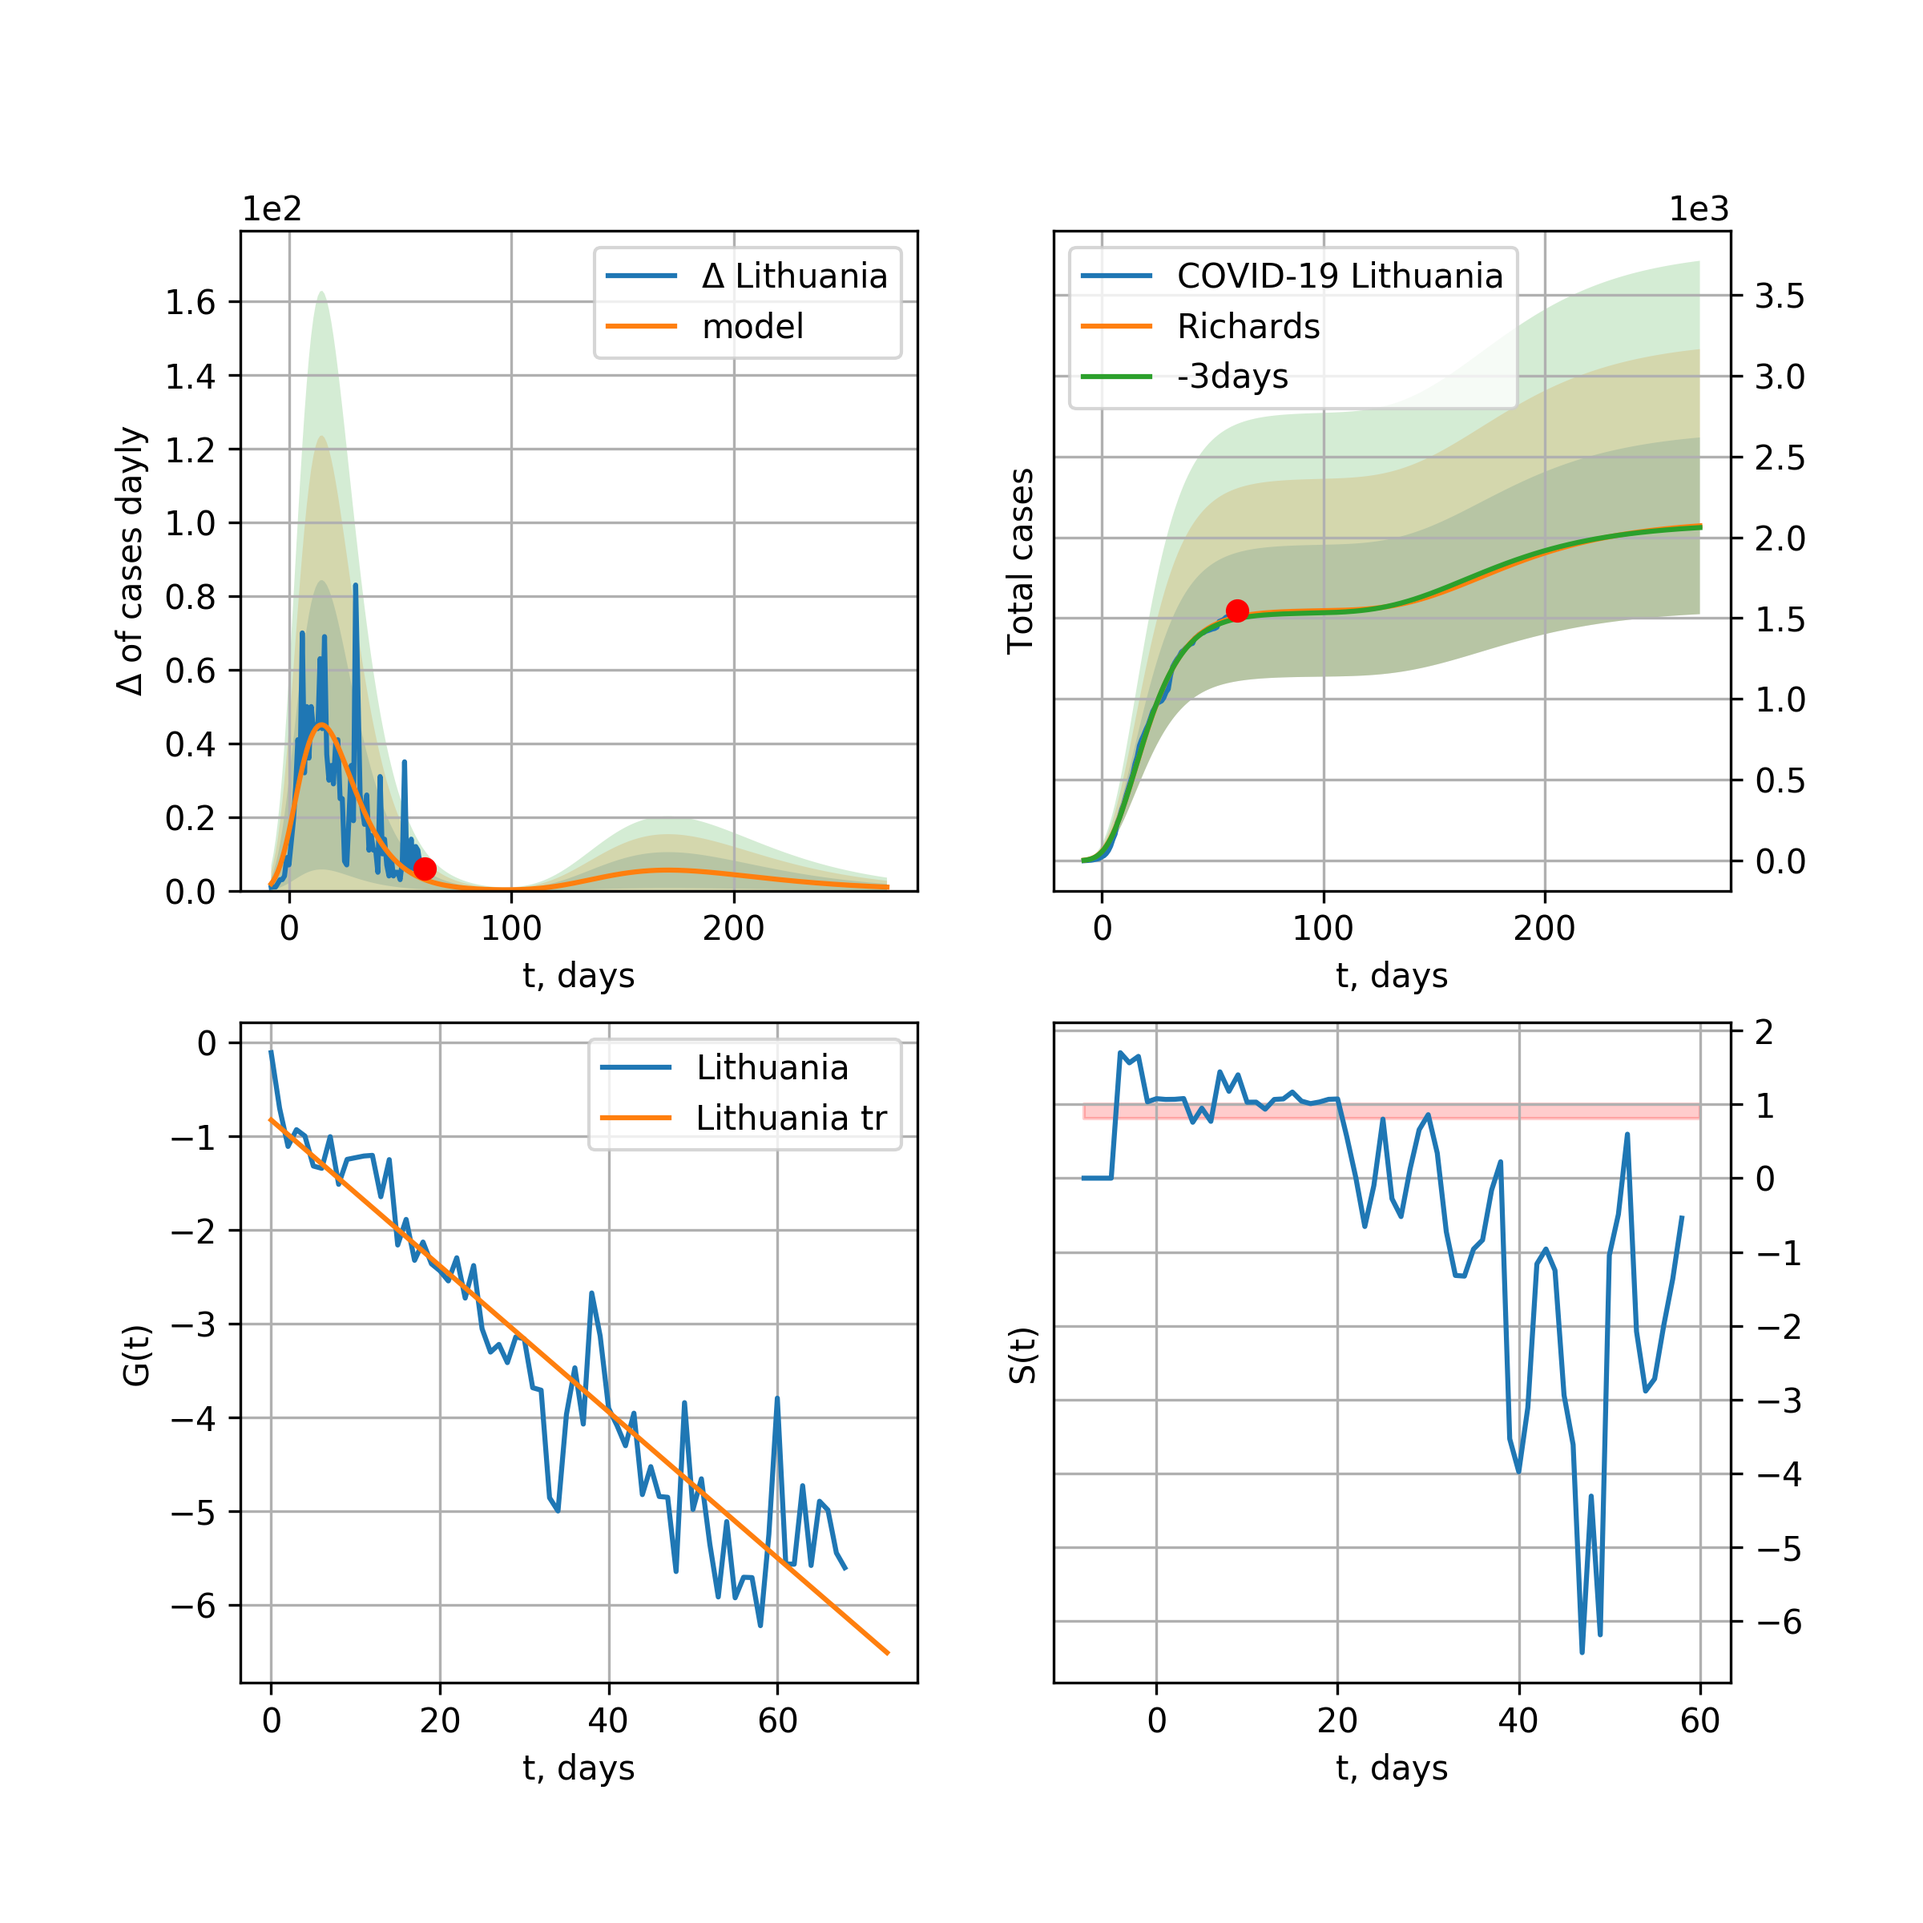
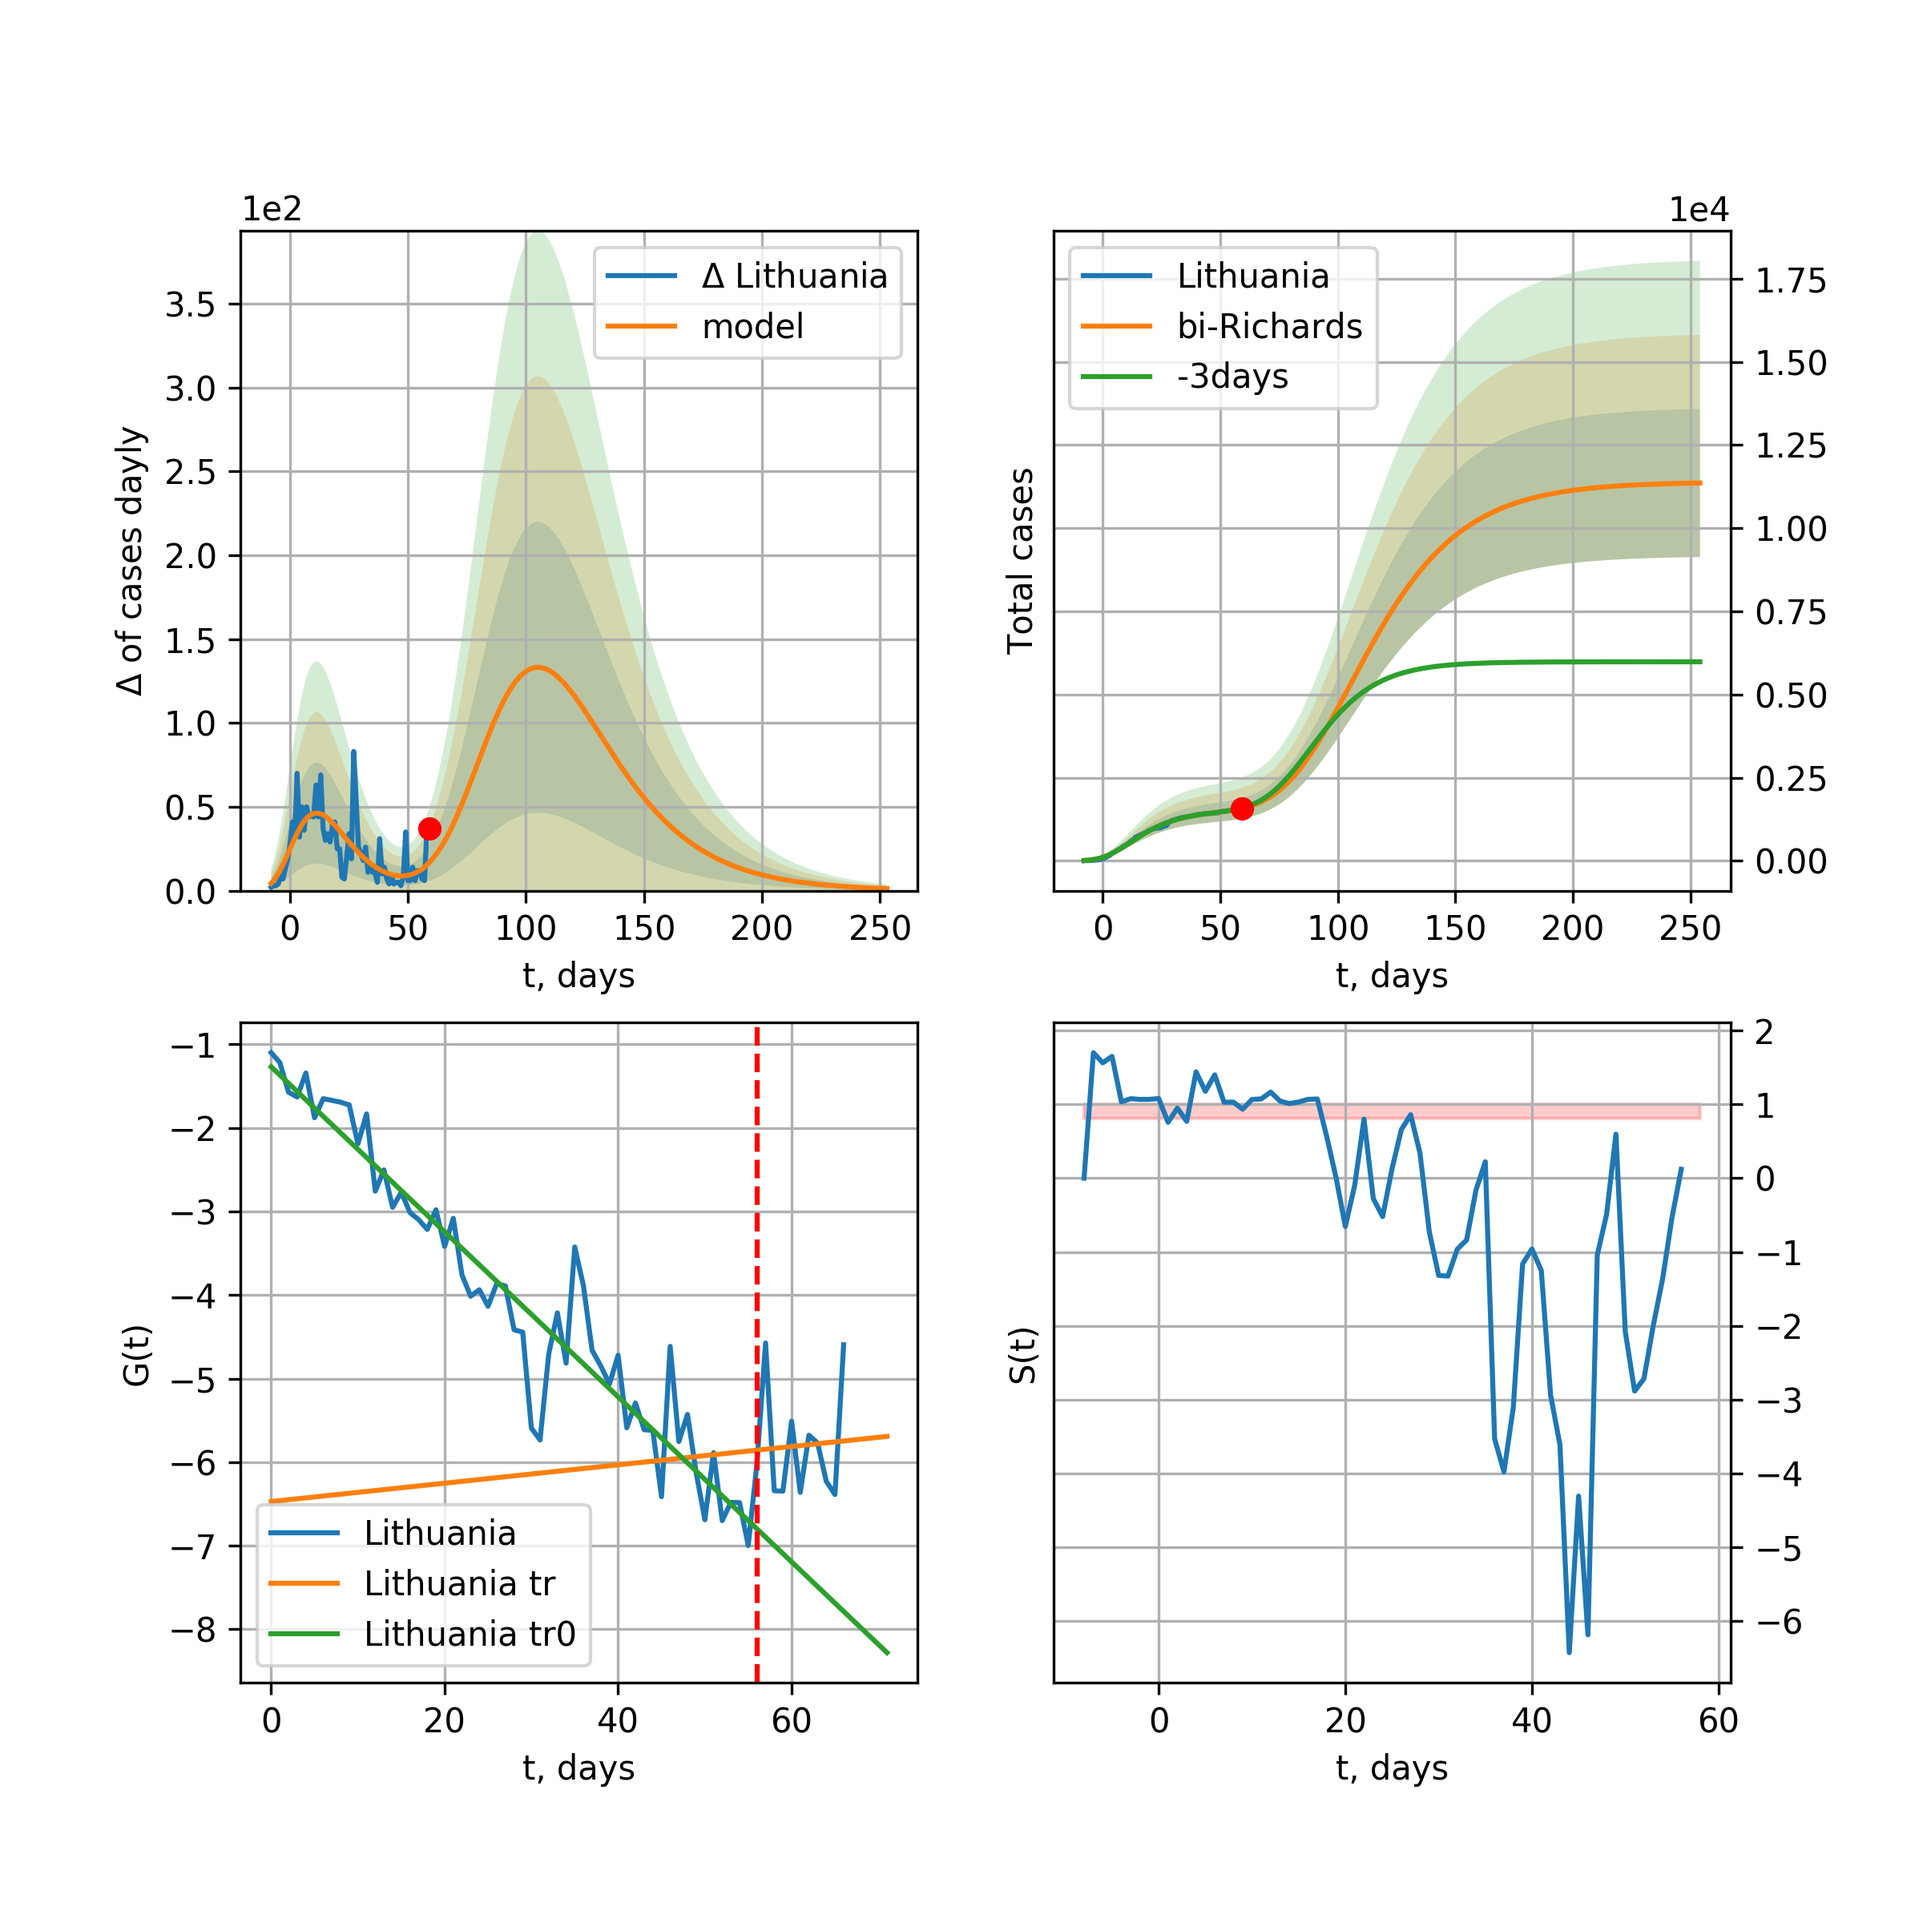
LT renew 2020-05-18

diff --git a/_site/index.html b/_site/index.html
@@ -1401,19 +1401,21 @@ trend coefficient of determination: 0.919966 <br />
     <br />
     <img src="pictures/covidcasesLithuania36_R.png" alt="hi" class="inline"/><br /> 
 
-      Lithuania data at: 2020-05-17<br />
-+3 day model MAPE: 0.007226<br />
-model: Richards<br />
-coeffs: [ 1.54705541e+03  1.24387039e+01 -4.84130093e+01  6.38893243e-03]<br />
-S.Korea scenario coeffs: [0.36242246, 2.56241634, 1.84890887, 0.13324732]<br />
-rational stdev: 0.263789<br />
-forecast at the end of period: +209 days<br />
-	 deltaDaycases: 0<br />
-	 total cases: 2070 ± 546<br />
-	 total death: 75 ± 59<br />
-trend coefficient of determination: 0.882672 <br />
- intercept: -0.823392 <br />
- slope: -0.077832<br />
+      Lithuania data at: 2020-05-18<br />
++3 day model MAPE: 0.007625<br />
+model: bi-Richards<br />
+coeffs: [9.88569088e+03 3.39829257e-01 4.93718670e+01 1.13792038e-01]<br />
+rational stdev: 0.196027<br />
+forecast at the end of period: +195 days<br />
+	 deltaDaycases: 1<br />
+	 total cases: 11358 ± 2226<br />
+	 total death: 433 ± 254<br />
+bi-Richards approximation splitting point: 56<br />
+trend coefficient of determination: 0.922087 <br />
+ intercept: -1.268317 <br />
+ slope: -0.098758<br />trend coefficient of determination: 0.002919 <br />
+ intercept: -6.471731 <br />
+ slope: 0.010979<br />
           <br /> 
     
     Latvia
